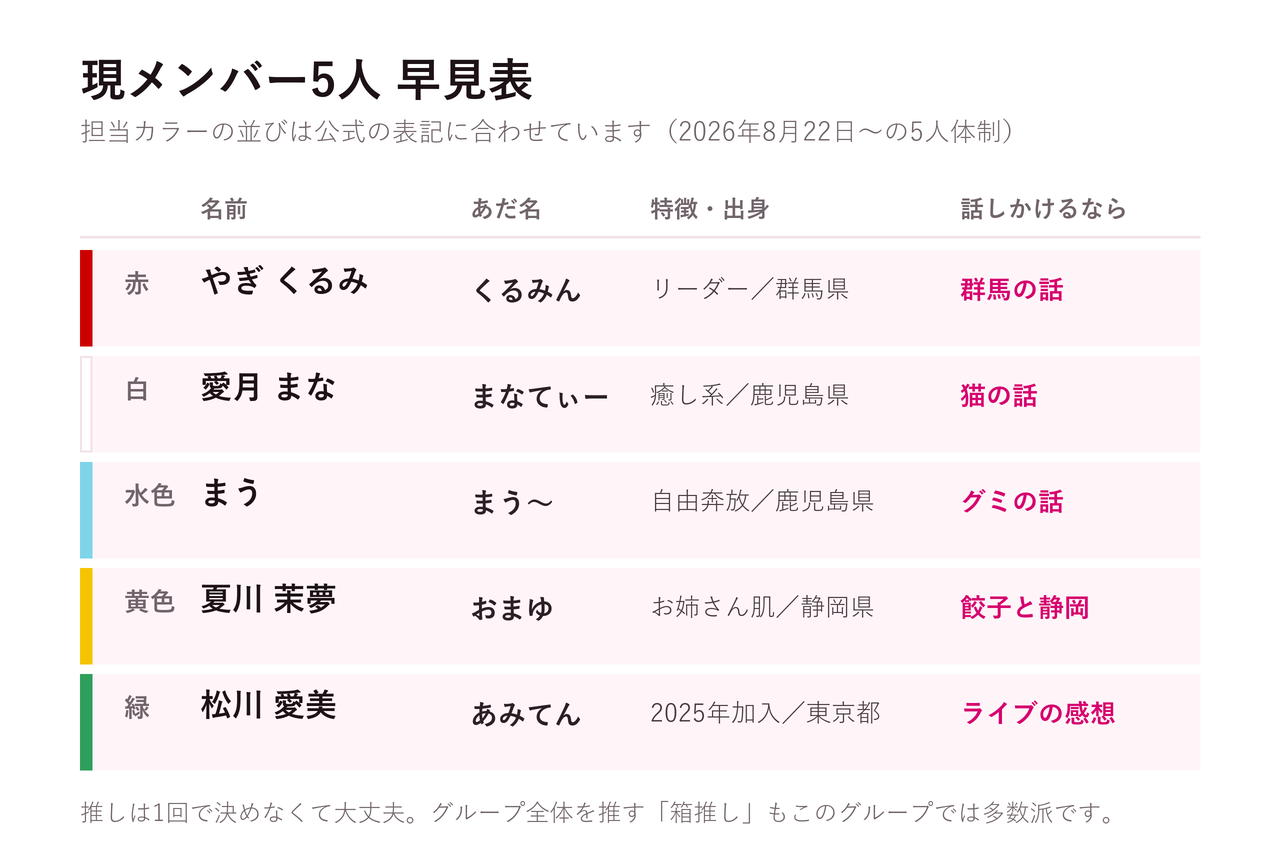
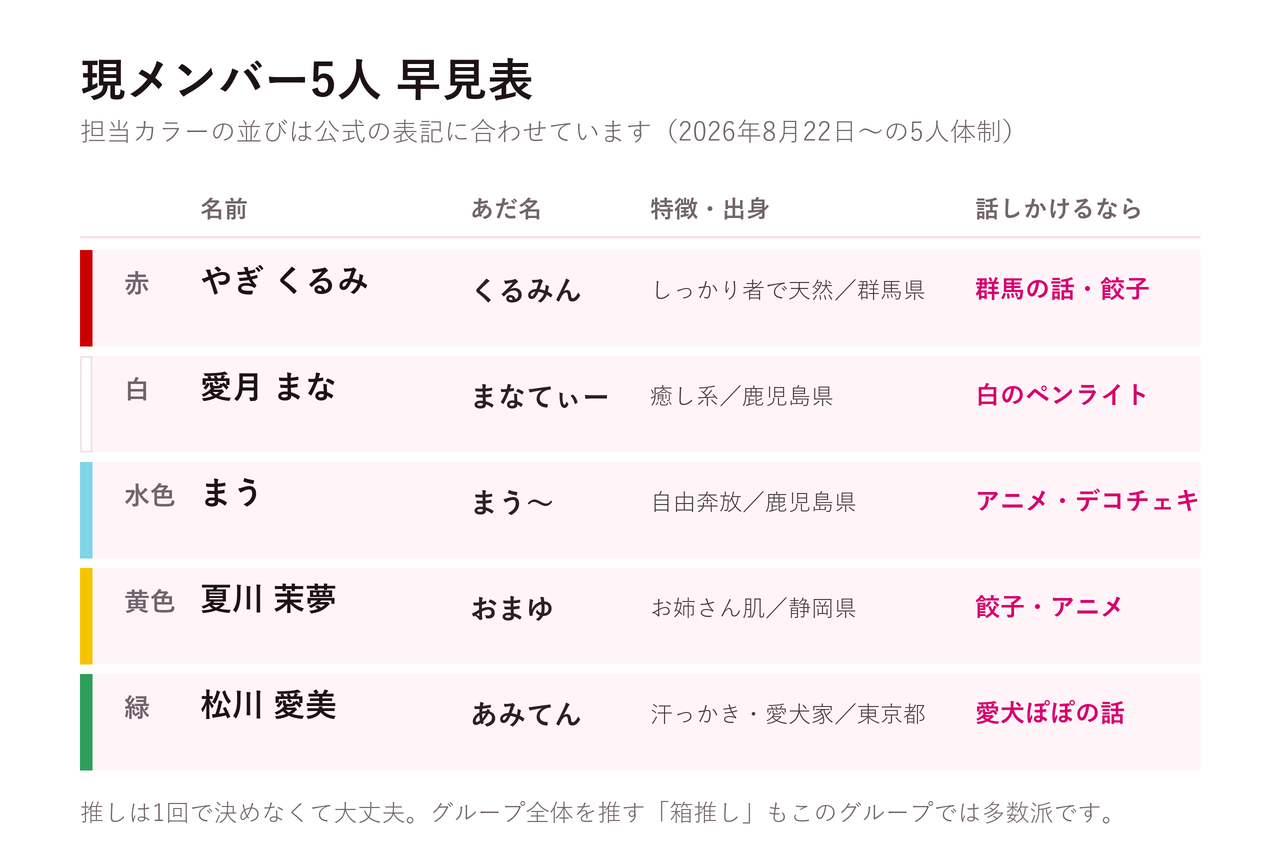
スターターパック メンバー編を実態に合わせて書き直す（オーナー指摘）
- くるみん: 単発08 を参考に書き直し。TikTok・鳥貴族・動画感想の段落と埋め込みを外す
- あみてん: 「2025年加入」中心の紹介をやめ、アイドル歴12年・愛犬ぽぽ・汗っかき襲名・共有したいタイプを書く
- まう・まなてぃー・あみてん: 元50/50研修生を追記（members/members.md の備考にも）
- 「話しかけるなら」と早見表を、各メンバーの話題の在庫（継続して話題にしているもの）に揃える
- 現場編の話題一覧・サイト用の版も同じ内容に。サイト用の版に残っていた「グループのリーダー」も削除

Claude-Session: https://claude.ai/code/session_01PGcDMTwMr4pbwKWxSMcVuy

diff --git a/articles/スターターパック/img/make_figures.py b/articles/スターターパック/img/make_figures.py
@@ -187,18 +187,18 @@ def members():
          f(26, False), C["muted"])
 
     rows = [
-        ("kurumi", "やぎ くるみ", "くるみん", "赤", "リーダー／群馬県", "群馬の話"),
-        ("mana",   "愛月 まな",   "まなてぃー", "白", "癒し系／鹿児島県", "猫の話"),
-        ("mau",    "まう",       "まう〜",   "水色", "自由奔放／鹿児島県", "グミの話"),
-        ("mayu",   "夏川 茉夢",   "おまゆ",   "黄色", "お姉さん肌／静岡県", "餃子と静岡"),
-        ("ami",    "松川 愛美",   "あみてん", "緑", "2025年加入／東京都", "ライブの感想"),
+        ("kurumi", "やぎ くるみ", "くるみん", "赤", "しっかり者で天然／群馬県", "群馬の話・餃子"),
+        ("mana",   "愛月 まな",   "まなてぃー", "白", "癒し系／鹿児島県", "白のペンライト"),
+        ("mau",    "まう",       "まう〜",   "水色", "自由奔放／鹿児島県", "アニメ・デコチェキ"),
+        ("mayu",   "夏川 茉夢",   "おまゆ",   "黄色", "お姉さん肌／静岡県", "餃子・アニメ"),
+        ("ami",    "松川 愛美",   "あみてん", "緑", "汗っかき・愛犬家／東京都", "愛犬ぽぽの話"),
     ]
     # ヘッダ行
     hy = 196
     text(d, (200, hy), "名前", f(24), C["muted"])
     text(d, (470, hy), "あだ名", f(24), C["muted"])
     text(d, (650, hy), "特徴・出身", f(24), C["muted"])
-    text(d, (960, hy), "話しかけるなら", f(24), C["muted"])
+    text(d, (975, hy), "話しかけるなら", f(24), C["muted"])
     rect(d, (80, hy + 40, 1200, hy + 42), fill=C["hairline"])
 
     y = 264
@@ -210,8 +210,8 @@ def members():
         text(d, (200, y), name, f(32), C["ink"])
         text(d, (200, y + 44), "", f(20), C["muted"])
         text(d, (470, y + 12), nick, f(28), C["body_strong"])
-        text(d, (650, y + 12), feat, f(25, False), C["body"])
-        text(d, (960, y + 12), topic, f(26), C["primary"])
+        text(d, (650, y + 14), feat, f(23, False), C["body"])
+        text(d, (975, y + 12), topic, f(25), C["primary"])
         y += 106
 
     text(d, (80, 800), "推しは1回で決めなくて大丈夫。グループ全体を推す「箱推し」もこのグループでは多数派です。",

diff --git a/members/members.md b/members/members.md
@@ -26,7 +26,7 @@
 - **担当カラー**: 水色
 - **誕生日**: 1月27日
 - **出身地**: 鹿児島県
-- **備考**: 元STRAY SHEEP CLAYMORE
+- **備考**: 元STRAY SHEEP CLAYMORE、元50/50研修生
 
 ### 松川 愛美（まつかわ あみ）
 - **あだ名**: あみてん
@@ -34,14 +34,14 @@
 - **誕生日**: 1月31日
 - **出身地**: 東京都
 - **加入**: 2025年3月30日（1stワンマンライブで加入発表、5月4日にお披露目）
-- **備考**: 元PiiiiiiiN、元INFIY∞。他4人はデビュー時からのメンバー
+- **備考**: 元PiiiiiiiN、元INFIY∞、元50/50研修生。他4人はデビュー時からのメンバー
 
 ### 愛月 まな（あづき まな）
 - **あだ名**: まなてぃー
 - **担当カラー**: 白色
 - **誕生日**: 2月22日
 - **出身地**: 鹿児島県
-- **備考**: 元STRAY SHEEP CLAYMORE
+- **備考**: 元STRAY SHEEP CLAYMORE、元50/50研修生
 
 ## 元メンバー
 

diff --git a/articles/スターターパック/03_現場編.md b/articles/スターターパック/03_現場編.md
@@ -305,10 +305,10 @@ GARRET udagawa、SHIBUYA CYCLONEなど）が中心なので、そもそもどこ
 
 そのうえで、もう1つ足すならこちらです。
 
-- **やぎくるみ**: TikTok「くるみるく」の動画の話
+- **やぎくるみ**: 群馬の話、餃子と唐揚げ
 - **夏川茉夢**: 餃子、アニメ
-- **まう**: アニメ（ちいかわ、ニコ動まわり）
-- **松川愛美**: いま挑戦していることの話
+- **まう**: アニメ（ちいかわ、ニコ動まわり）、デコチェキ
+- **松川愛美**: 愛犬ぽぽの話
 - **愛月まな**: 白のペンライトを振っていたこと
 
 撮ったチェキはSNSに上げてOKです。グループのタグは `#ろりぽっぷ`。
